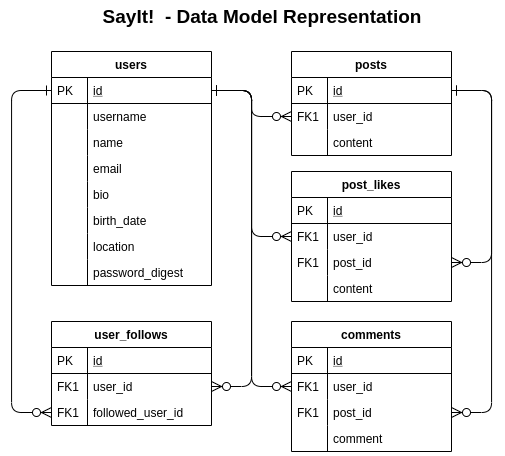
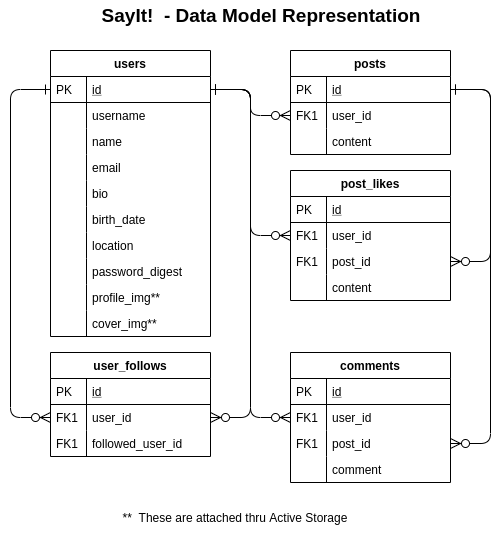
Correct controllers to reflect feedback from the project review

Changed region(s): [[0.0, 0.0921, 0.9861, 1.0], [0.3287, 0.0, 0.8367, 0.0614], [0.2092, 0.0, 0.2988, 0.0614]]

diff --git a/app/controllers/users_controller.rb b/app/controllers/users_controller.rb
@@ -1,6 +1,7 @@
 class UsersController < ApplicationController
   before_action :login_first, only: [:show]
   before_action :go_home_if_logged_in, only: [:new]
+
   def new
     @user = User.new
   end
@@ -8,8 +9,9 @@ class UsersController < ApplicationController
   def update
     @user = User.find(params[:id])
     if @user&.update(profile_img: params[:user][:profile_img])
+      flash[:success] = 'Profile pic updated!'
     else
-      flash[:error] = 'Could not change picture'
+      flash[:error] = 'Could not update profile pic'
     end
     redirect_back fallback_location: current_user
   end
@@ -17,7 +19,7 @@ class UsersController < ApplicationController
   def create
     @user = User.new(user_params)
     if @user.save
-      flash[:success] = @user.username + ', Welcome!'
+      flash[:success] = @user.username + ', Welcome to SayIt!'
       login @user
       redirect_to home_path
     else
@@ -27,7 +29,7 @@ class UsersController < ApplicationController
 
   def show
     @user = User.find(params[:id])
-    @u_posts = @user.posts.newest_first.includes([:comments])
+    @u_posts = @user.posts.includes([:comments, :post_likes]).newest_first
   end
 
   private

diff --git a/app/controllers/post_likes_controller.rb b/app/controllers/post_likes_controller.rb
@@ -1,17 +1,19 @@
 class PostLikesController < ApplicationController
   def create
-    if current_user.like(params[:id])
-      render json: { liked?: true }
-    else
-      render json: { liked?: false }
-    end
+    result = if current_user.like(params[:id])
+               true
+             else
+               false
+             end
+    render json: { liked: result }
   end
 
   def destroy
-    if current_user.unlike(params[:id])
-      render json: { liked?: false }
-    else
-      render json: { liked?: true }
-    end
+    result = if current_user.unlike(params[:id])
+               false
+             else
+               true
+             end
+    render json: { liked: result }
   end
 end

diff --git a/app/controllers/user_follows_controller.rb b/app/controllers/user_follows_controller.rb
@@ -1,12 +1,19 @@
 class UserFollowsController < ApplicationController
   def create
-    @msg = 'Following' if current_user.follow(params[:id])
-    respond_to do |format|
-      format.js { render layout: false }
-    end
+    result = if current_user.follow(params[:id])
+               true
+             else
+               false
+             end
+    render json: { followed: result }
   end
 
   def destroy
-    flash[:success] = 'Aww! no more posts from this user on your timeline' if current_user.unfollow(params[:id])
+    result = if current_user.unfollow(params[:id])
+               false
+             else
+               true
+             end
+    render json: { followed: result }
   end
 end

diff --git a/app/controllers/sessions_controller.rb b/app/controllers/sessions_controller.rb
@@ -1,7 +1,7 @@
 class SessionsController < ApplicationController
-  def new; end
-
   before_action :go_home_if_logged_in, only: %i[new create]
+  
+  def new; end
 
   def create
     @user = User.find_by(username: params[:username])
@@ -16,7 +16,11 @@ class SessionsController < ApplicationController
   end
 
   def destroy
-    logout
-    redirect_to login_path
+    if logout
+      flash[:info] = "You have been logged out successfully"
+    else
+      flash[:error] = "Could not terminate the session, please try again"
+    end
+      redirect_to login_path
   end
 end

diff --git a/app/controllers/posts_controller.rb b/app/controllers/posts_controller.rb
@@ -8,11 +8,11 @@ class PostsController < ApplicationController
     @post = current_user.posts.build(post_params)
     puts 'Valid post?' + @post.valid?.to_s
     if @post.save
-      puts 'Post saved:' + @post.content.to_s
-      redirect_to home_path
+      flash[:success] = "Post created successfully"
     else
-      render html: 'Post not created'
+      flash[:error] = "Could not create post, please try again later"
     end
+      redirect_back fallback_location: home_path
   end
 
   private

diff --git a/app/controllers/comments_controller.rb b/app/controllers/comments_controller.rb
@@ -3,10 +3,10 @@ class CommentsController < ApplicationController
     @comment = current_user.comments.build(comment_params)
     if @comment.save
       flash[:success] = 'Comment added successfully'
-      redirect_back fallback_location: home_path
     else
       flash[:danger] = 'Could not add comment'
     end
+      redirect_back fallback_location: home_path
   end
 
   private

diff --git a/app/controllers/application_controller.rb b/app/controllers/application_controller.rb
@@ -1,15 +1,3 @@
 class ApplicationController < ActionController::Base
   include SessionsHelper
-
-  def go_home_if_logged_in
-    return unless logged_in?
-
-    redirect_to home_path
-  end
-
-  def login_first
-    return if logged_in?
-
-    redirect_to login_path
-  end
 end

diff --git a/app/helpers/sessions_helper.rb b/app/helpers/sessions_helper.rb
@@ -14,4 +14,16 @@ module SessionsHelper
   def logout
     session.delete(:user_id)
   end
+  
+  def go_home_if_logged_in
+    return unless logged_in?
+
+    redirect_to home_path
+  end
+
+  def login_first
+    return if logged_in?
+
+    redirect_to login_path
+  end
 end

diff --git a/README.md b/README.md
@@ -24,6 +24,8 @@ The purpose of this project is to practice Rails acquired knowledge by building 
 * Ruby on Rails 6
 * HTML5/CSS3/Sass
 * JQuery
+* Postgres
+* AWS S3
 * Capybara
 * RSpec
 
@@ -35,7 +37,7 @@ The purpose of this project is to practice Rails acquired knowledge by building 
 
 #### Live Version:
 
-<!-- You can find a live running version of this app on the following link: [Stay In Touch](https://mighty-basin-95377.herokuapp.com/users/sign_in) -->
+You can find a live running version of this app on the following link: [SayIt!](https://sayit.herokuapp.com/)
 
 #### Instructions for running on local environment:
 
@@ -75,7 +77,8 @@ The purpose of this project is to practice Rails acquired knowledge by building 
    
    * On the right side of the page, you will see recommendations of users to follow, click on the follow button so you can start seeing his posts on your home screen.  
    
-   * To see your profile, click on the Profile Option in the NavBar, there, you will see your info, your posts and stats 
+   * To see your profile, click on the Profile Option in the NavBar, there, you will see your info, your posts and stats
+   * You can change your profile pic by clicking on the button that appears when you hover your profile pic App, the cover is automatically generated 
 
    * To create a Post, go to your home page, fill up the post information and press the button.
 
